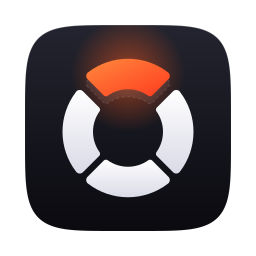
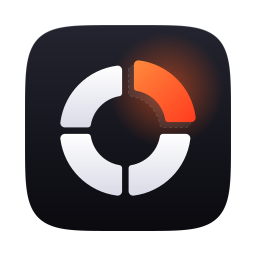
docs(brand): turn the mark 45 degrees clockwise
The ring now sits on the diagonal with gaps up, down, left and right;
the rescued orange segment is the top-right one, returning along its
diagonal, with the glow and optical centring following it. Regenerated
the app icon, README logo, marks, Icon Composer layers and PNG sizes,
and updated the design system and the README alt texts in all five
languages.

Changed region(s): [[0.2188, 0.0938, 0.8438, 0.7812], [0.25, 0.375, 0.2812, 0.4375], [0.3438, 0.7188, 0.375, 0.75]]

diff --git a/assets/brand/src/build_brand.py b/assets/brand/src/build_brand.py
@@ -2,8 +2,8 @@
 """Generates Rescyo's brand mark and app icon as SVG.
 
 The mark is a rescue ring that is also a disk platter cut into sectors. Three segments are in
-place; the top one, in rescue orange, is rising back into its slot, whose dashed outline still
-shows where it belongs. Geometry is
+place; the top-right one, in rescue orange, is returning to its slot along the diagonal, whose
+dashed outline still shows where it belongs. Geometry is
 computed here so every export (README logo, app icons, Icon Composer layers) stays identical.
 
 Usage: python3 build_brand.py <out-dir>
@@ -81,11 +81,13 @@ def squircle(x0, y0, size, n=5.0, steps=256):
 
 
 Q = math.pi / 2
-# Segments centred on top, right, bottom and left (gaps on the diagonals, like a life ring).
-# The rescued one is the top segment, lifted straight up.
-SLOTS = [(-1.5 * Q, -0.5 * Q), (-0.5 * Q, 0.5 * Q), (0.5 * Q, 1.5 * Q), (1.5 * Q, 2.5 * Q)]
+# The whole mark is turned 45 degrees clockwise: segments centred on the diagonals, gaps
+# straight up, down, left and right. The rescued one is the top-right segment, lifted outwards
+# along its diagonal.
+ROTATION = Q / 2
+SLOTS = [(a + ROTATION, b + ROTATION) for a, b in [(-1.5 * Q, -0.5 * Q), (-0.5 * Q, 0.5 * Q), (0.5 * Q, 1.5 * Q), (1.5 * Q, 2.5 * Q)]]
 RESCUED = 0
-LIFT_ANGLE = -Q
+LIFT_ANGLE = -Q + ROTATION
 LIFT_DX = LIFT * math.cos(LIFT_ANGLE)
 LIFT_DY = LIFT * math.sin(LIFT_ANGLE)
 
@@ -134,8 +136,10 @@ def svg(body, view="0 0 1024 1024", w=1024):
             f'{defs()}\n  {body}\n</svg>\n')
 
 
-# The lifted segment adds weight on top: shift the mark down by half the lift to centre it.
-OPTICAL = f'transform="translate(0 {LIFT / 2:.1f})"'
+# The lifted segment adds weight towards it: shift the mark back by half the lift to centre it.
+OPTICAL = (
+    f'transform="translate({-LIFT / 2 * math.cos(LIFT_ANGLE):.1f} {-LIFT / 2 * math.sin(LIFT_ANGLE):.1f})"'
+)
 
 
 def icon_body():

diff --git a/docs/design/README.md b/docs/design/README.md
@@ -6,7 +6,7 @@ One visual language for the GUI, the TUI, the website and the README. People ope
 
 ![Rescyo app icon](../../assets/brand/png/app-icon-256.png)
 
-A rescue ring that is also a disk platter cut into sectors. Three segments are in place; the top one, in rescue orange, is rising back into its slot, whose dashed outline still shows where it belongs. It says what the tool does without a single letter, survives at 16 px, and stays clear of the usual "crosshair", "pie chart" and "cloud with arrow" icons.
+A rescue ring that is also a disk platter cut into sectors, set on the diagonal. Three segments are in place; the top-right one, in rescue orange, is returning to its slot along the diagonal, whose dashed outline still shows where it belongs. It says what the tool does without a single letter, survives at 16 px, and stays clear of the usual "crosshair", "pie chart" and "cloud with arrow" icons.
 
 | File | Use |
 |---|---|
@@ -17,7 +17,7 @@ A rescue ring that is also a disk platter cut into sectors. Three segments are i
 | `assets/brand/png/` | Pre-rendered sizes 16–1024 |
 | `assets/brand/src/build_brand.py` | Generates everything above. Edit the geometry there, never the SVGs by hand |
 
-Rules: keep clear space equal to the gap between segments times four; never recolour the white segments, rotate the mark, or move the orange segment to another slot (its position is the meaning); on photos, use the tile, not the bare mark.
+Rules: keep clear space equal to the gap between segments times four; never recolour the white segments, rotate the mark, or move the orange segment out of the top-right slot (its position is the meaning); on photos, use the tile, not the bare mark.
 
 ## Color
 

diff --git a/README.ru.md b/README.ru.md
@@ -1,6 +1,6 @@
 <div align="center">
 
-<img src="assets/brand/logo.svg" width="132" alt="Логотип Rescyo: спасательный круг, верхний сегмент которого возвращается на место">
+<img src="assets/brand/logo.svg" width="132" alt="Логотип Rescyo: спасательный круг, правый верхний сегмент которого возвращается на место">
 
 # Rescyo
 

diff --git a/README.ja.md b/README.ja.md
@@ -1,6 +1,6 @@
 <div align="center">
 
-<img src="assets/brand/logo.svg" width="132" alt="Rescyo のロゴ：上部のセグメントが元の位置に戻りつつある浮き輪">
+<img src="assets/brand/logo.svg" width="132" alt="Rescyo のロゴ：右上のセグメントが元の位置に戻りつつある浮き輪">
 
 # Rescyo レスキオ
 

diff --git a/README.ko.md b/README.ko.md
@@ -1,6 +1,6 @@
 <div align="center">
 
-<img src="assets/brand/logo.svg" width="132" alt="Rescyo 로고: 윗부분 조각이 제자리로 돌아오는 구명 튜브">
+<img src="assets/brand/logo.svg" width="132" alt="Rescyo 로고: 오른쪽 위 조각이 제자리로 돌아오는 구명 튜브">
 
 # Rescyo 레스키오
 

diff --git a/README.md b/README.md
@@ -1,6 +1,6 @@
 <div align="center">
 
-<img src="assets/brand/logo.svg" width="132" alt="Rescyo logo: a rescue ring whose top segment is returning to its place">
+<img src="assets/brand/logo.svg" width="132" alt="Rescyo logo: a rescue ring whose top-right segment is returning to its place">
 
 # Rescyo
 

diff --git a/README.zh-CN.md b/README.zh-CN.md
@@ -1,6 +1,6 @@
 <div align="center">
 
-<img src="assets/brand/logo.svg" width="132" alt="Rescyo 标志：顶部一段正在归位的救生圈">
+<img src="assets/brand/logo.svg" width="132" alt="Rescyo 标志：右上方一段正在归位的救生圈">
 
 # Rescyo 数据救援
 
